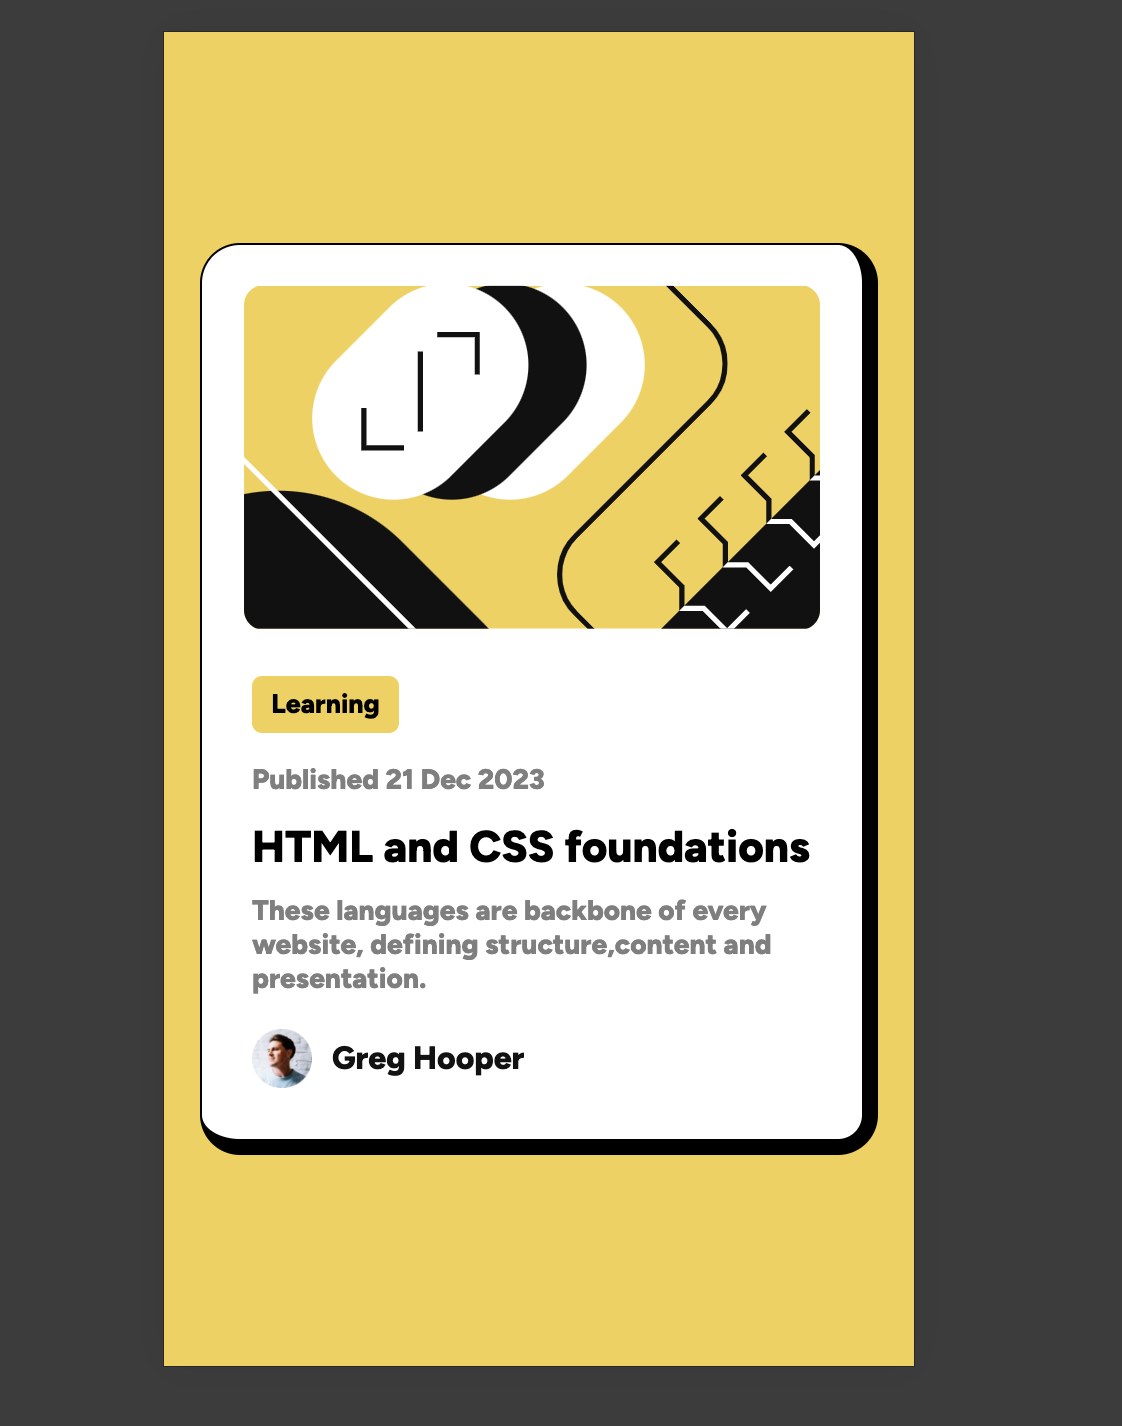
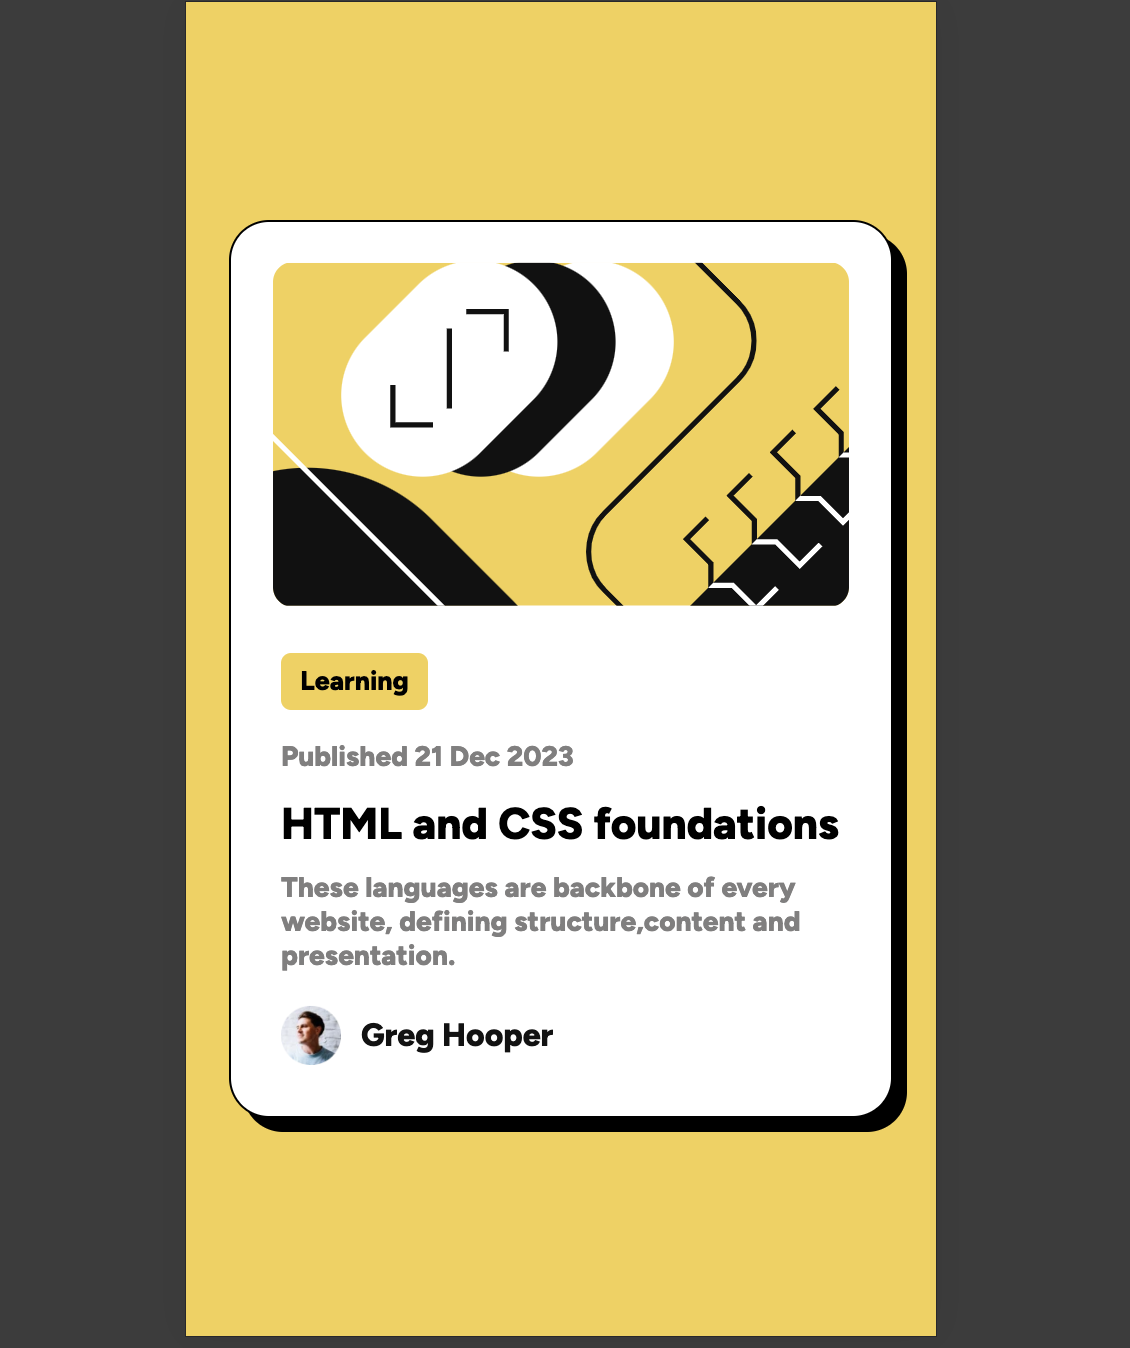
updated

Changed region(s): [[0.1248, 0.0, 0.8422, 0.997]]

diff --git a/style.css b/style.css
@@ -21,14 +21,12 @@
         height: 57%;
         border-radius: 20px;
         border: 1px solid black;
-        border-right: 8px solid black;
-        border-bottom: 8px solid black; 
+        box-shadow: 7px 7px;
         cursor: pointer;
     }
 
     .container:hover{
-        border-right: 12px solid black;
-        border-bottom: 12px solid black;
+        box-shadow: 15px 15px;
     }
 
     .image{
@@ -116,8 +114,7 @@
         height: 67%;
         border-radius: 20px;
         border: 1px solid black;
-        border-right: 8px solid black;
-        border-bottom: 8px solid black; 
+        box-shadow: 7px 7px;
         cursor: pointer;
     }
 

diff --git a/README.md b/README.md
@@ -11,10 +11,10 @@ Users should be able to:
 ### Screenshot
 
 #### Desktop-Design
-![ScreenShot](./assets/images/full-screen.png)
+![ScreenShot](./assets/images/desktop.png)
 
 #### Hover-Effect
-![Hover](./assets/images/hover-effect.png)
+![Hover](./assets/images/hover.png)
 
 #### Mobile Screen
 ![Mobile](./assets/images/mobile.png)
@@ -22,8 +22,8 @@ Users should be able to:
 
 ### Links
 
-- Solution URL: [GitHub](https://github.com/Kshitiz42069/frontend-mentor-Template)
-- Live Site URL: [Live link](https://your-live-site-url.com)
+- Solution URL: [Add solution URL here](https://github.com/Kshitiz42069/frontend-mentor-Template)
+- Live Site URL: [Add live site URL here](https://your-live-site-url.com)
 
 ## My process
 
